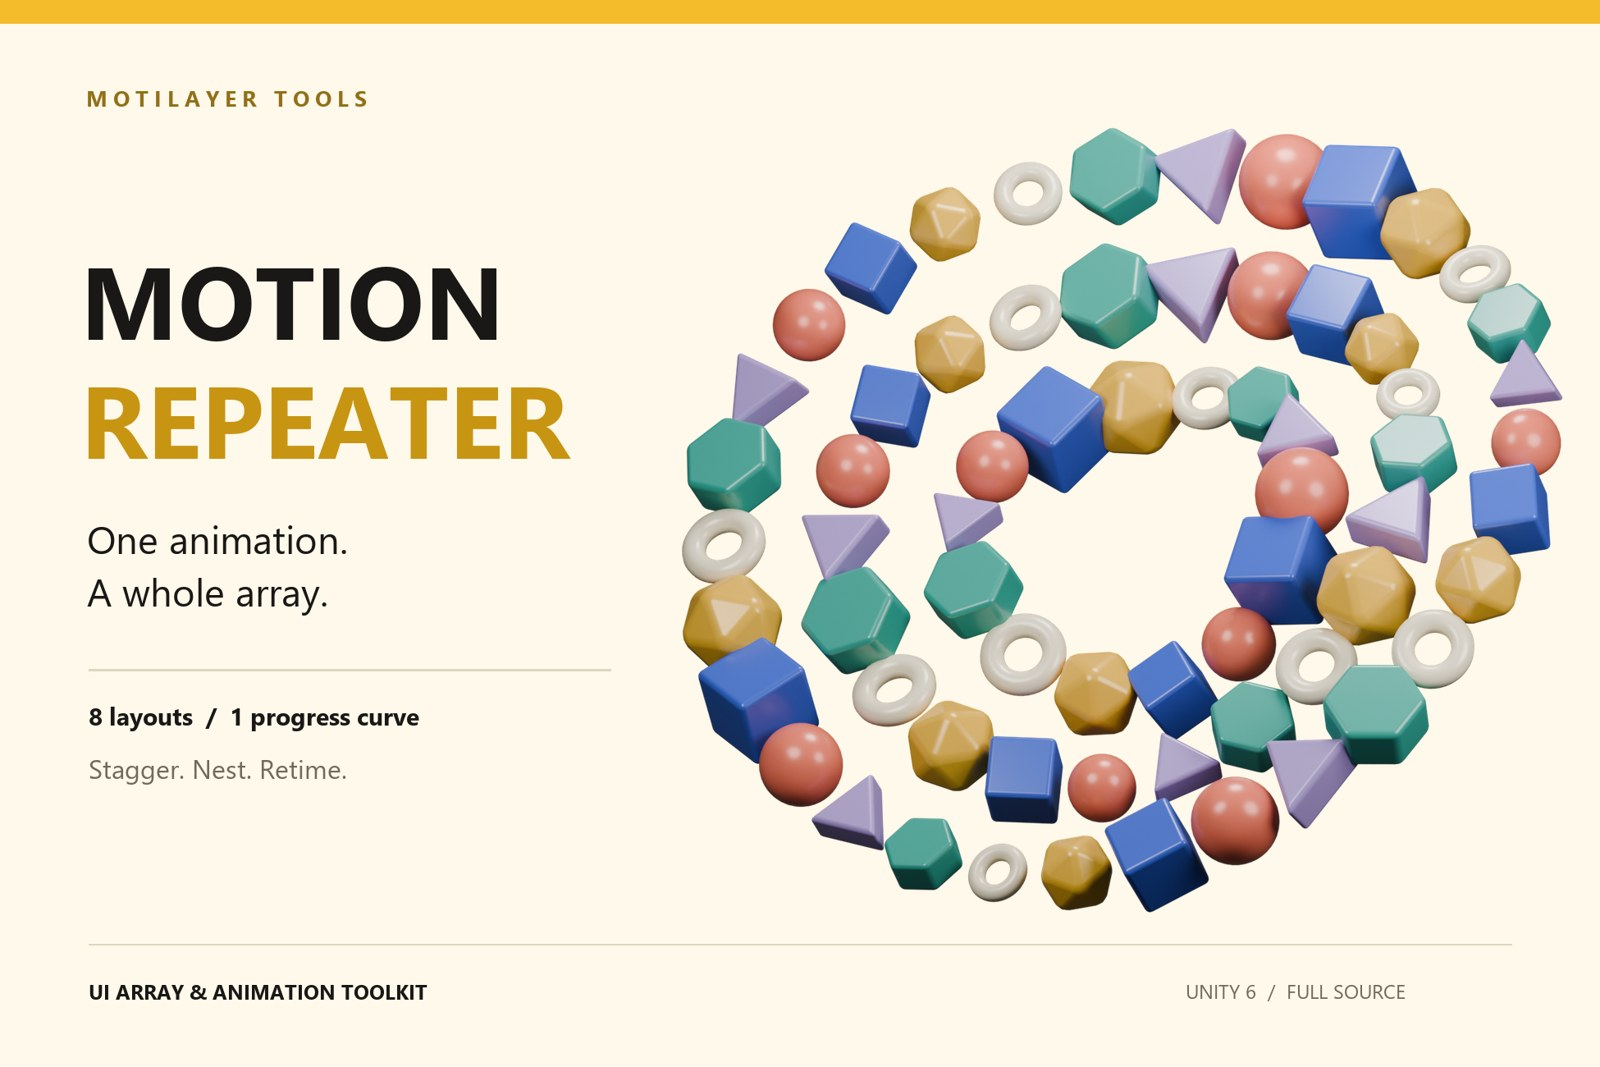
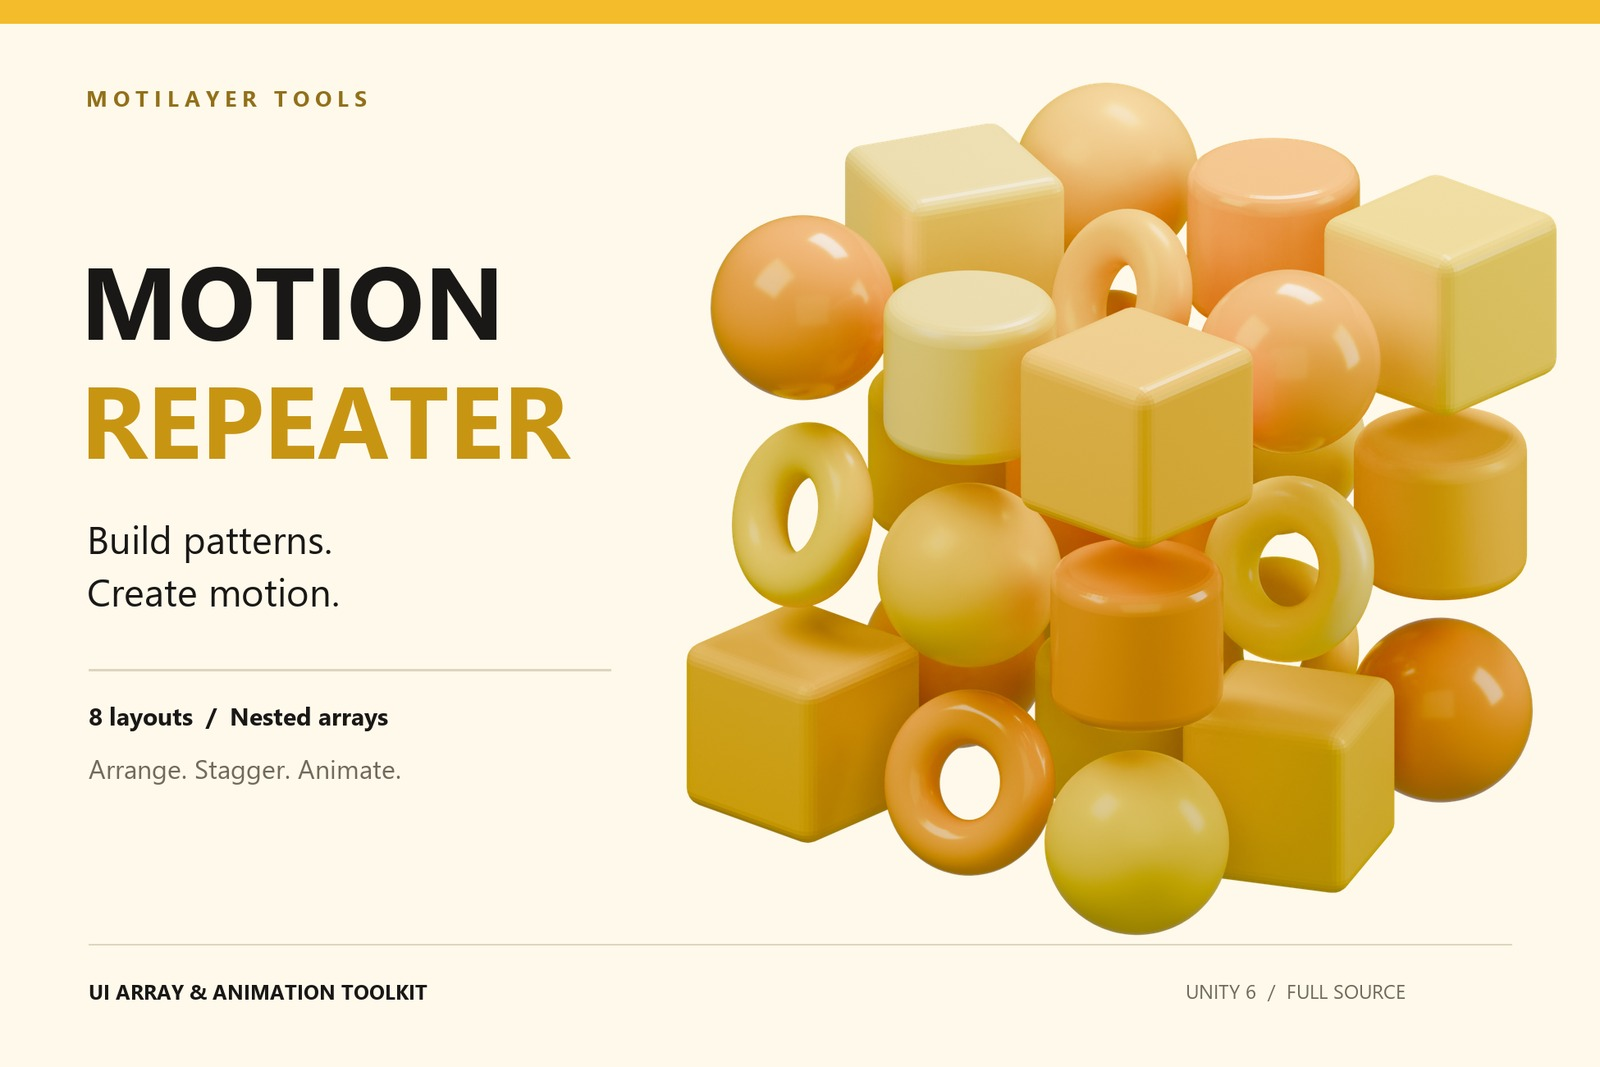
Refocus Motion Repeater presentation on layouts, ordering and visual variation

diff --git a/motion-repeater/index.html b/motion-repeater/index.html
@@ -1,11 +1,11 @@
-<!doctype html><html lang="en"><head><meta charset="utf-8"><meta name="viewport" content="width=device-width,initial-scale=1"><title>Motion Repeater — MotiLayer</title><meta name="description" content="Repeat UI animation across eight layouts. Stagger the copies, nest arrays and retime a group with one Progress curve."><style>
+<!doctype html><html lang="en"><head><meta charset="utf-8"><meta name="viewport" content="width=device-width,initial-scale=1"><title>Motion Repeater — MotiLayer</title><meta name="description" content="Build UI motion in Unity: eight layouts, nested arrays, independent playback and index orders, Index Offset, gradients and custom sprites."><style>
 *{box-sizing:border-box}body{margin:0;border-top:12px solid #f4bc2a;background:#fff9eb;color:#191816;font:18px/1.65 system-ui,sans-serif}a{color:inherit}main,nav,footer{max-width:1280px;margin:auto;padding:30px}nav{display:flex;justify-content:space-between;align-items:center;border-bottom:1px solid #ded5bf}nav a{text-decoration:none}nav strong{letter-spacing:3px;font-size:15px}nav div{display:flex;gap:28px;font-size:15px}h1{font-size:clamp(46px,7vw,92px);line-height:1.04;letter-spacing:-3px;margin:20px 0}h2{font-size:42px;line-height:1.15;margin:12px 0 28px}h3{font-size:23px}.eyebrow{font-size:14px;font-weight:700;letter-spacing:2px;color:#927019}.hero{padding:48px 0 20px}.lede{max-width:760px;font-size:23px;color:#615b4e}.button{display:inline-block;background:#f4bc2a;padding:13px 24px;text-decoration:none;font-weight:650;border:1px solid #d9a31c;border-radius:5px}.secondary{background:transparent;border-color:#c9bea5;margin-left:12px}img,video{display:block;max-width:100%;height:auto;border-radius:8px}figure{margin:40px 0}figcaption,.note{font-size:13px;color:#716a5b;margin-top:12px}section{padding:65px 0;border-bottom:1px solid #ded5bf}.grid{display:grid;grid-template-columns:repeat(3,1fr);gap:35px}.grid article{border-top:3px solid #f4bc2a;padding-top:16px}.split{display:grid;grid-template-columns:1fr 1fr;gap:50px;align-items:center}footer{display:flex;justify-content:space-between;font-size:14px}details{padding:20px 0;border-top:1px solid #ded5bf}summary{font-weight:650;cursor:pointer}a:focus-visible,summary:focus-visible{outline:3px solid #c89513;outline-offset:5px}@media(max-width:750px){main,nav,footer{padding:22px}.grid,.split{grid-template-columns:1fr;gap:25px}h1{letter-spacing:-1px}h2{font-size:34px}nav div{gap:14px}section{padding:40px 0}footer{display:block}.button{margin:6px 6px 6px 0}.lede{font-size:20px}}</style></head><body>
 <nav><a href="../"><strong>MOTILAYER TOOLS</strong></a><div><a href="#layouts">Layouts</a><a href="guide.html">Guide</a><a href="mailto:jyq787899384@gmail.com">Support</a></div></nav>
-<main><section class="hero"><p class="eyebrow">MOTION REPEATER · UNITY UI</p><h1>One animation.<br>A whole array.</h1><p class="lede">Place the copies, set their stagger and retime the finished group with one Progress curve. Build the rhythm in Unity, without managing the same motion on every copy.</p><p><a class="button" href="https://assetstore.unity.com/packages/slug/411992">View on Unity Asset Store</a><a class="button secondary" href="guide.html">Read the guide</a></p><figure><img src="media/cover.jpg" width="1600" height="1067" alt="Motion Repeater with concentric rings of colorful geometric shapes"><figcaption>Promotional artwork made with a Blender Geometry Nodes cloner. The product works with Unity UI objects.</figcaption></figure></section>
+<main><section class="hero"><p class="eyebrow">MOTION REPEATER · UNITY UI</p><h1>Build patterns.<br>Create motion.</h1><p class="lede">Build animated patterns, expanding rings, flowing paths and layered repeats directly in Unity. Motion Repeater combines eight array layouts with staggered animation, nested arrays and control over how motion, offsets and colors travel through your design.</p><p><a class="button" href="https://assetstore.unity.com/packages/slug/411992">View on Unity Asset Store</a><a class="button secondary" href="guide.html">Read the guide</a></p><figure><img src="media/cover.jpg" width="1600" height="1067" alt="Yellow geometric shapes arranged in a cubic array"><figcaption>Promotional artwork made with a Blender Geometry Nodes cloner. The product works with Unity UI objects.</figcaption></figure></section>
 <section id="layouts"><p class="eyebrow">08 LAYOUTS</p><h2>Give the animation a structure.</h2><p class="lede">Rows, circles, paths, spirals, rays, hexagonal rings, seeded scatter or a shape sampled from a sprite. Each layout has its own placement and ordering controls.</p><img loading="lazy" src="media/gallery-01-layouts.jpg" alt="A diagram of all eight array layouts" width="1600" height="900"></section>
-<section><div class="grid"><article><p class="eyebrow">01 / ARRANGE</p><h3>Start with a source.</h3><p>Choose an object, Animation Clip and time range. Preview your layout and adjust spacing, order, stagger and source time scale.</p></article><article><p class="eyebrow">02 / GENERATE</p><h3>Keep the timing together.</h3><p>The generated group stores its source motion. A Time Controller exposes Progress from 0 to 1 for the whole composition.</p></article><article><p class="eyebrow">03 / RETIME</p><h3>Shape the pace.</h3><p>Move the Progress keys, change their easing, hold a value or reverse the curve. Use the array as a source to build another layer.</p></article></div></section>
-<section class="split"><div><p class="eyebrow">NESTED COMPOSITIONS</p><h2>Repeat the repeat.</h2><p>Combine an inner array's motion with an outer array's stagger. Each copy retains its nested timing, while the outer Progress curve controls the result.</p><p>Ordinary GameObjects remain in the hierarchy, ready for the rest of your UI.</p></div><figure><img loading="lazy" src="media/gallery-03-showcase.jpg" alt="Nested Squares example running in the included showcase"><figcaption>Actual capture from the included Unity scene.</figcaption></figure></section>
+<section><div class="grid"><article><h3>A different rhythm for each layout</h3><p>Each layout offers ordering modes suited to its structure: by row or column, around a ring, along a path or spiral, by ray, across hexagonal rings, or by distance in a scatter. Choose from the modes available for that layout, reverse the order, and adjust stagger to build ripples, cascades and overlapping motion.</p></article><article><h3>Separate playback, index and color orders</h3><p>Set playback order, Index order and Color & Sprite order independently. Playback order determines when each copy animates. Index order determines how offsets are assigned. Color & Sprite has its own distribution order, so the color pattern does not have to follow the animation sequence.</p></article><article><h3>Shape the pattern with Index Offset</h3><p>Apply position, rotation and scale offsets across the array using its Index order. Build stepped sizes, progressive rotations and shifted patterns. For a source with several parts, choose the transform targets that should receive the offsets during setup.</p></article></div></section>
+<section class="split"><div><p class="eyebrow">NESTED COMPOSITIONS</p><h2>Repeat the repeat.</h2><p>Repeat a ring, layer a grid or combine an inner pattern with an outer stagger. Build more elaborate motion from simple parts.</p><p>Ordinary GameObjects remain in the hierarchy, ready for the rest of your UI.</p></div><figure><img loading="lazy" src="media/gallery-03-showcase.jpg" alt="Nested Squares example running in the included showcase"><figcaption>Actual capture from the included Unity scene.</figcaption></figure></section>
 <section><p class="eyebrow">TWELVE EXAMPLES · ONE SCENE</p><h2>See the parts working together.</h2><video controls preload="metadata" poster="media/gallery-04-showcase.jpg"><source src="showcase-final12.mp4" type="video/mp4"></video><p class="note">Six nested compositions and six layout studies: Scale Echo, Grid Pulse, Nested Squares, Nested Ribbon, Year Cascade, Nested Type Field, Ring Bloom, Spiral Flow, Bezier Path, Radial Burst, Hexagon Rings and Luminance Portrait.</p></section>
-<section><div class="grid"><article><h3>Paths that move.</h3><p>Linear and Bezier interpolation, Scene-view handles, linked tangents, facing offsets and travel along the path. Wrap at the ends or continue along their direction.</p></article><article><h3>Sprites that become layouts.</h3><p>Use alpha or luminance as a mask. Map brightness to scale or opacity. A sprite sheet becomes a sequence controlled by its own progress value.</p></article><article><h3>Familiar editing.</h3><p>Undo, native Unity Presets and header Reset. Choose exact Image or transform targets before generating. Full C# source and an English guide are included.</p></article></div></section>
-<section><h2>Before you start</h2><details><summary>What does the package need?</summary><p>Unity 6 and Unity UI. The release project uses Unity 6000.0.26f1 on Windows with the Built-in Render Pipeline. The showcase uses standard Unity UI materials. Other pipelines and platforms are not verified for this release.</p></details><details><summary>Does one curve mean one rendered object?</summary><p>No. The progress curve simplifies animation authoring. Copies remain GameObjects, and the Time Controller samples their source motion. Element count, nested hierarchy depth and animation complexity still affect runtime cost.</p></details><details><summary>Can I convert an earlier array?</summary><p>The scene migration command backs up the scene and clips, moves existing curves into composition clips and replaces them with Progress curves. Hand-edited motion is retained internally; it is not automatically reduced to a single shared source.</p></details><details><summary>Which parts are fixed when I generate?</summary><p>Element counts, path-point counts, selected targets and sprite sampling data. Regenerate the array to change them. Continuous layout parameters and Progress can be animated on the generated components.</p></details><details><summary>What is outside the supported workflow?</summary><p>Humanoid animation, root motion, Animation Events, additive Animator-layer blending and independent inner Animators writing the same properties as a Time Controller. This is a uGUI tool, not a 3D cloner, GPU instancer or UI Toolkit system.</p></details></section>
-<section><h2>Put the timing in one place.</h2><p>Full source, eight presets, twelve examples and the guide are included.</p><a class="button" href="https://assetstore.unity.com/packages/slug/411992">Open the store page</a><a class="button secondary" href="guide.html">Read the guide</a></section></main><footer><span>MotiLayer · Motion Repeater 1.1.1</span><a href="mailto:jyq787899384@gmail.com">jyq787899384@gmail.com</a></footer></body></html>
+<section><div class="grid"><article><h3>Paths and sprite shapes</h3><p>Arrange your UI with Grid, Ring, Path, Spiral, Radial, Hexagonal, Scatter or Sprite Shape. Edit linear and Bezier paths with Scene-view handles, move elements along a path, or fill a custom sprite shape using alpha or luminance. Sprite sheets can animate the sampled shape; luminance can also vary element size or opacity.</p></article><article><h3>Gradients and custom sprites on selected layers</h3><p>Choose multiple target objects within your source and apply animated gradient changes, random colors and custom sprite variations to their Image components. Supply your own sliced sprite sheet to distribute its sprites across the array. Only Images on the selected objects are affected, so other parts of the source keep their appearance. Target selection is configured before generation.</p></article><article><h3>Create and refine in Unity</h3><p>Preview the result while adjusting layout, spacing, order, stagger and variation. Undo, native Unity Presets and header Reset fit into the editor workflow. Full C# source, eight starting presets, an English guide and twelve animation examples in two groups of six are included.</p></article></div></section>
+<section><h2>Before you start</h2><details><summary>What does the package need?</summary><p>Unity 6 and Unity UI. The release project uses Unity 6000.0.26f1 on Windows with the Built-in Render Pipeline. The showcase uses standard Unity UI materials. Other pipelines and platforms are not verified for this release.</p></details><details><summary>What affects performance?</summary><p>Copies remain GameObjects, and the Time Controller samples their source motion. Element count, nested hierarchy depth and animation complexity still affect runtime cost.</p></details><details><summary>Can I convert an earlier array?</summary><p>The scene migration command backs up the scene and clips, moves existing curves into composition clips and replaces them with Progress curves. Hand-edited motion is retained internally; it is not automatically reduced to a single shared source.</p></details><details><summary>Which parts are fixed when I generate?</summary><p>Element counts, path-point counts, selected targets and sprite sampling data. Regenerate the array to change them. Continuous layout parameters and Progress can be animated on the generated components.</p></details><details><summary>What is outside the supported workflow?</summary><p>Humanoid animation, root motion, Animation Events, additive Animator-layer blending and independent inner Animators writing the same properties as a Time Controller. This is a uGUI tool, not a 3D cloner, GPU instancer or UI Toolkit system.</p></details></section>
+<section><h2>Start with a shape. Build a pattern.</h2><p>Full source, eight presets, twelve examples and the guide are included.</p><a class="button" href="https://assetstore.unity.com/packages/slug/411992">Open the store page</a><a class="button secondary" href="guide.html">Read the guide</a></section></main><footer><span>MotiLayer · Motion Repeater 1.1.1</span><a href="mailto:jyq787899384@gmail.com">jyq787899384@gmail.com</a></footer></body></html>
